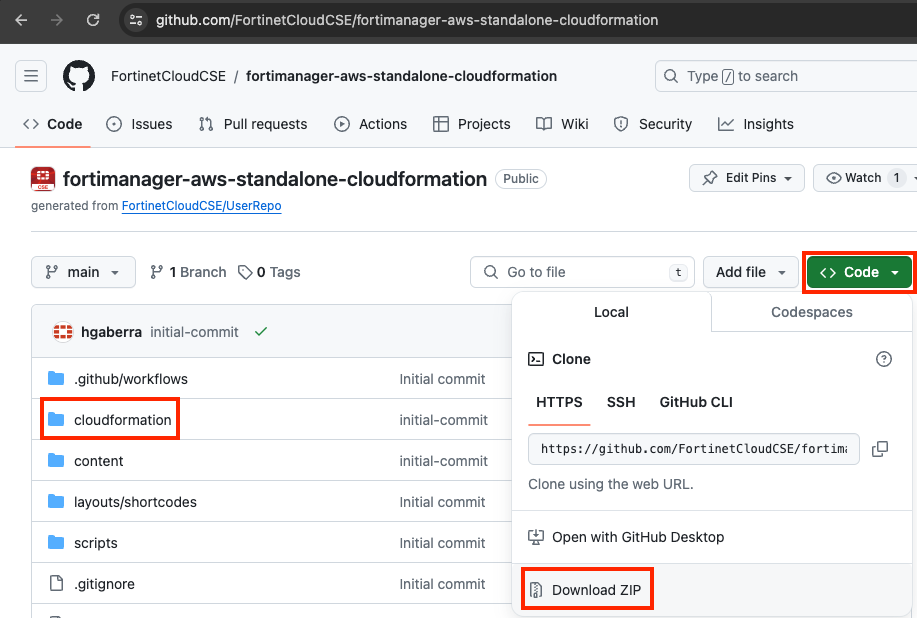
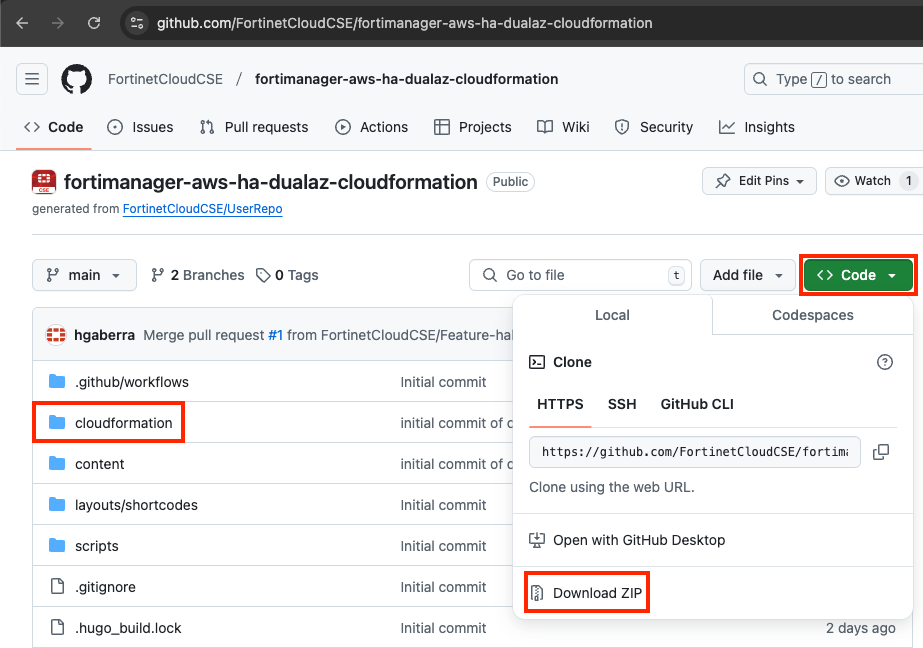
update deployment first pic

diff --git a/content/_index.md b/content/_index.md
@@ -1,5 +1,5 @@
 ---
-title: "fortimanager-aws-standalone-cloudformation"
+title: "fortimanager-aws-ha-dualaz-cloudformation"
 weight: 1
 archetype: home
 ---
